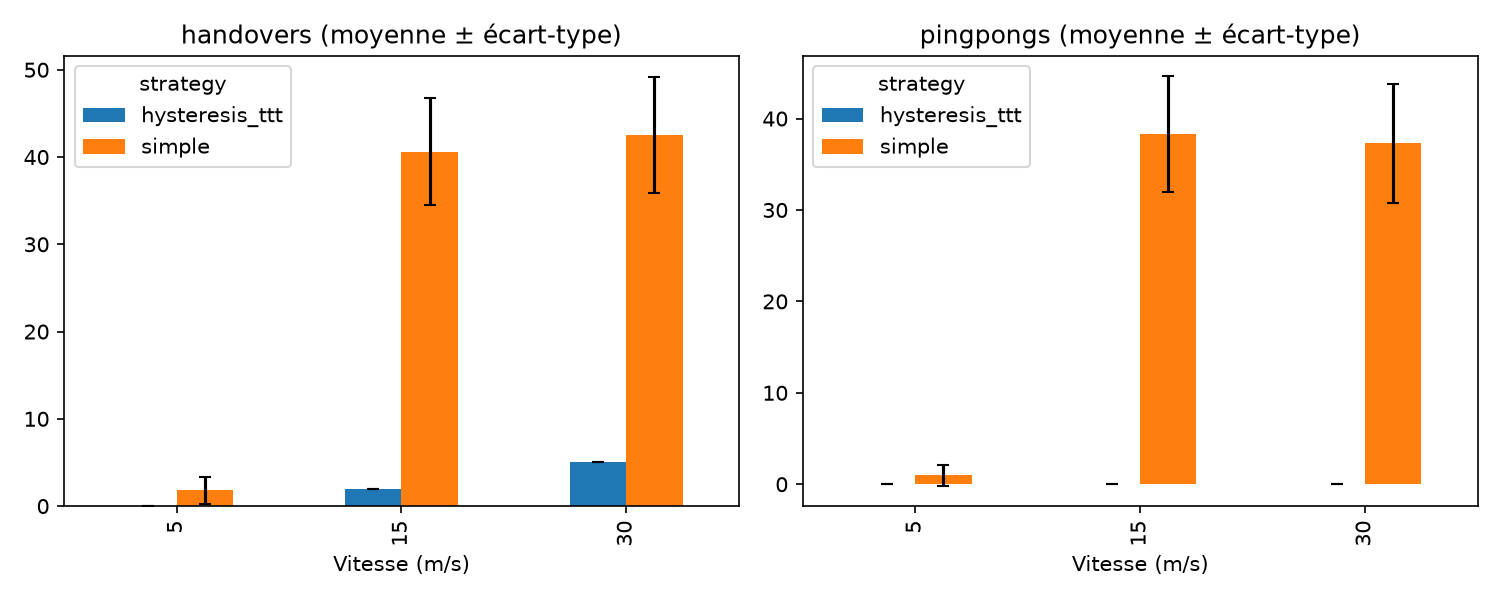
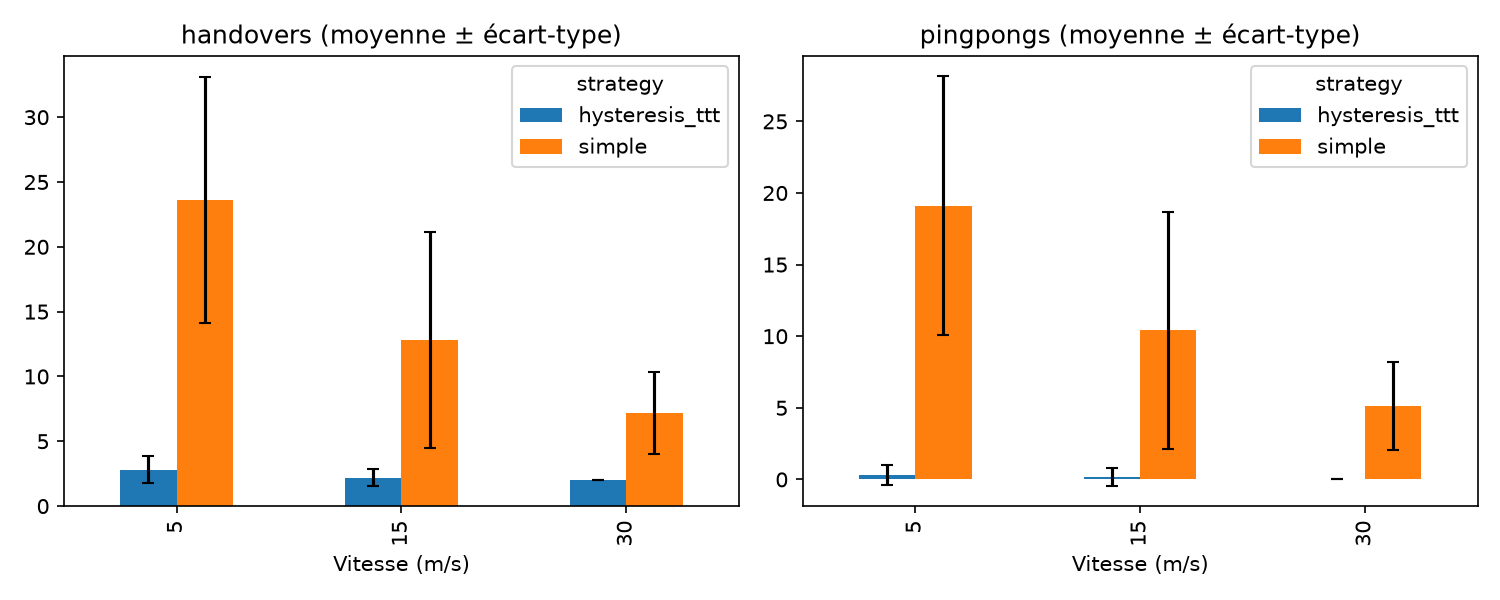
Atelier 15: v2 (shadowing correle, route unique, metrique subopt)

diff --git a/scripts/handover_sim.py b/scripts/handover_sim.py
@@ -2,61 +2,57 @@ import numpy as np
 import pandas as pd
 
 CELLS = {"cell_1": 200.0, "cell_2": 500.0, "cell_3": 800.0}
-P0, N_EXP, SHADOW = -30.0, 3.5, 4.0      # dBm à 1 m, exposant, écart-type shadowing (dB)
-DT, DURATION = 0.1, 60.0                  # pas 0,1 s, 60 s de simulation
-INTERRUPTION_S = 0.05                     # coupure par handover : 50 ms
-HYST_DB, TTT_S = 3.0, 0.5                 # stratégie 2
-
-def rx_power(x, cell_x, rng):
-    d = max(abs(x - cell_x), 1.0)
-    return P0 - 10 * N_EXP * np.log10(d) + rng.normal(0, SHADOW)
+P0, N_EXP, SHADOW = -30.0, 3.5, 4.0   # dBm à 1 m, exposant, écart-type shadowing (dB)
+D_CORR = 20.0                          # distance de décorrélation du shadowing (m)
+DT = 0.1
+ROUTE = 1000.0                         # chaque UE parcourt la route une seule fois
+INTERRUPTION_S = 0.05
+HYST_DB, TTT_S = 3.0, 0.5
 
 def run(strategy, speed, seed):
     rng = np.random.default_rng(seed)
-    x, serving, history = 0.0, "cell_1", []
-    ttt_timer, candidate = 0.0, None
-    n_ho, n_pingpong, last_ho_t = 0, 0, -99.0
-    prev_cell = None
-    for step in range(int(DURATION / DT)):
-        t = step * DT
-        x = (x + speed * DT) % 1000
-        pw = {c: rx_power(x, cx, rng) for c, cx in CELLS.items()}
+    rho = np.exp(-speed * DT / D_CORR)             # corrélation temporelle (AR(1))
+    shadow = {c: rng.normal(0, SHADOW) for c in CELLS}
+    x, t, serving = 0.0, 0.0, "cell_1"
+    prev_cell, last_ho_t = None, -99.0
+    candidate, ttt_timer = None, 0.0
+    n_ho = n_pp = 0
+    t_subopt = 0.0
+    while x < ROUTE:
+        pw = {}
+        for c, cx in CELLS.items():
+            shadow[c] = rho * shadow[c] + np.sqrt(1 - rho**2) * rng.normal(0, SHADOW)
+            pw[c] = P0 - 10 * N_EXP * np.log10(max(abs(x - cx), 1.0)) + shadow[c]
         best = max(pw, key=pw.get)
+        if pw[best] - pw[serving] >= HYST_DB:
+            t_subopt += DT                          # coût : cellule servante nettement moins bonne
         do_ho = False
         if strategy == "simple":
             do_ho = best != serving
-            target = best
         else:
-            target = best
             if best != serving and pw[best] - pw[serving] >= HYST_DB:
                 if candidate != best:
                     candidate, ttt_timer = best, 0.0
                 ttt_timer += DT
-                if ttt_timer >= TTT_S:
-                    do_ho = True
+                do_ho = ttt_timer >= TTT_S
             else:
                 candidate, ttt_timer = None, 0.0
         if do_ho:
             n_ho += 1
-            if prev_cell == target and (t - last_ho_t) < 2.0:
-                n_pingpong += 1
-            prev_cell, serving, last_ho_t = serving, target, t
+            if prev_cell == best and (t - last_ho_t) < 2.0:
+                n_pp += 1
+            prev_cell, serving, last_ho_t = serving, best, t
             candidate, ttt_timer = None, 0.0
-        history.append(t)
+        x += speed * DT
+        t += DT
     interruption = n_ho * INTERRUPTION_S
     return dict(strategy=strategy, speed=speed, seed=seed, handovers=n_ho,
-                pingpongs=n_pingpong, interruption_s=interruption,
-                loss_pct=100 * interruption / DURATION)
+                pingpongs=n_pp, interruption_s=interruption,
+                loss_pct=100 * interruption / t, subopt_s=round(t_subopt, 2))
 
-rows = []
-for strategy in ("simple", "hysteresis_ttt"):
-    for speed in (5, 15, 30):               # piéton/vélo, voiture lente, voiture
-        for seed in range(10):              # 10 répétitions (minimum exigé : 3)
-            rows.append(run(strategy, speed, seed))
-
+rows = [run(s, v, seed) for s in ("simple", "hysteresis_ttt")
+        for v in (5, 15, 30) for seed in range(10)]
 df = pd.DataFrame(rows)
 df.to_csv("data/processed/handover_results.csv", index=False)
-summary = df.groupby(["strategy", "speed"])[["handovers", "pingpongs", "interruption_s", "loss_pct"]] \
-            .agg(["mean", "std"]).round(2)
-print(summary)
-
+print(df.groupby(["strategy", "speed"])[["handovers", "pingpongs", "interruption_s", "loss_pct", "subopt_s"]]
+        .agg(["mean", "std"]).round(2))
